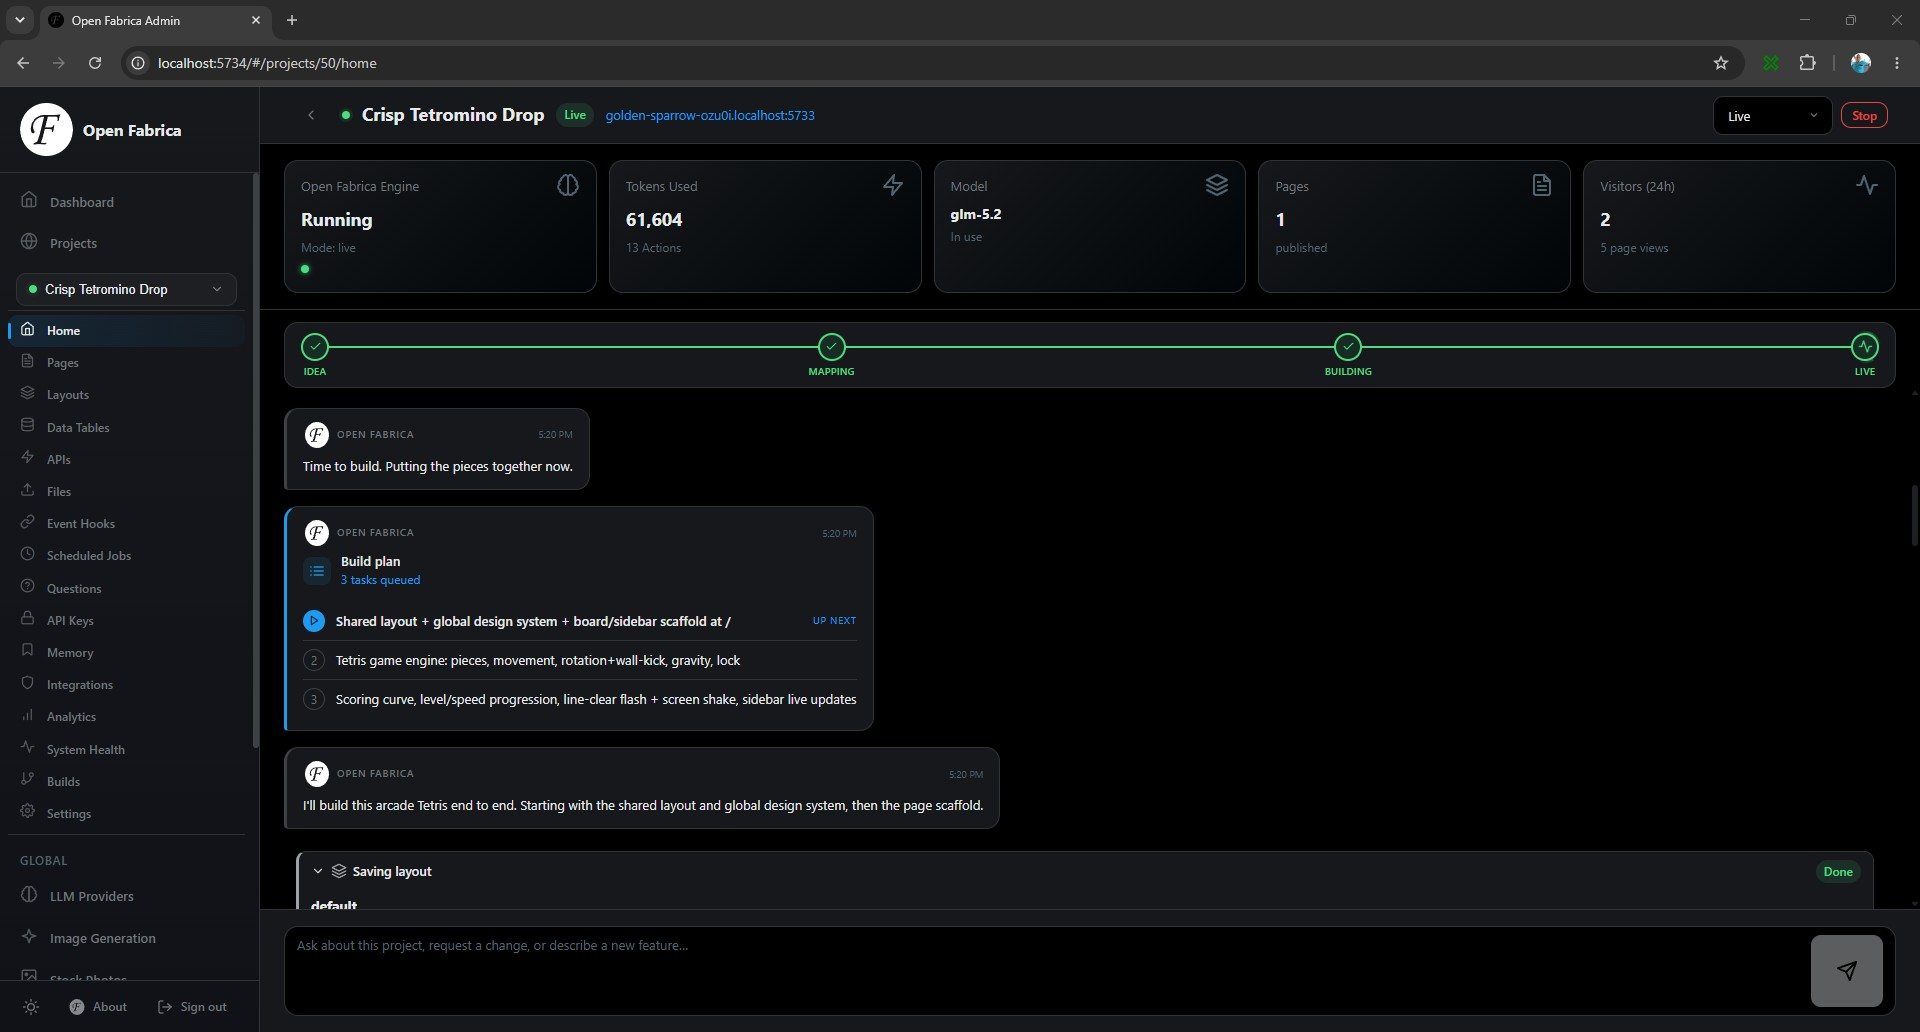
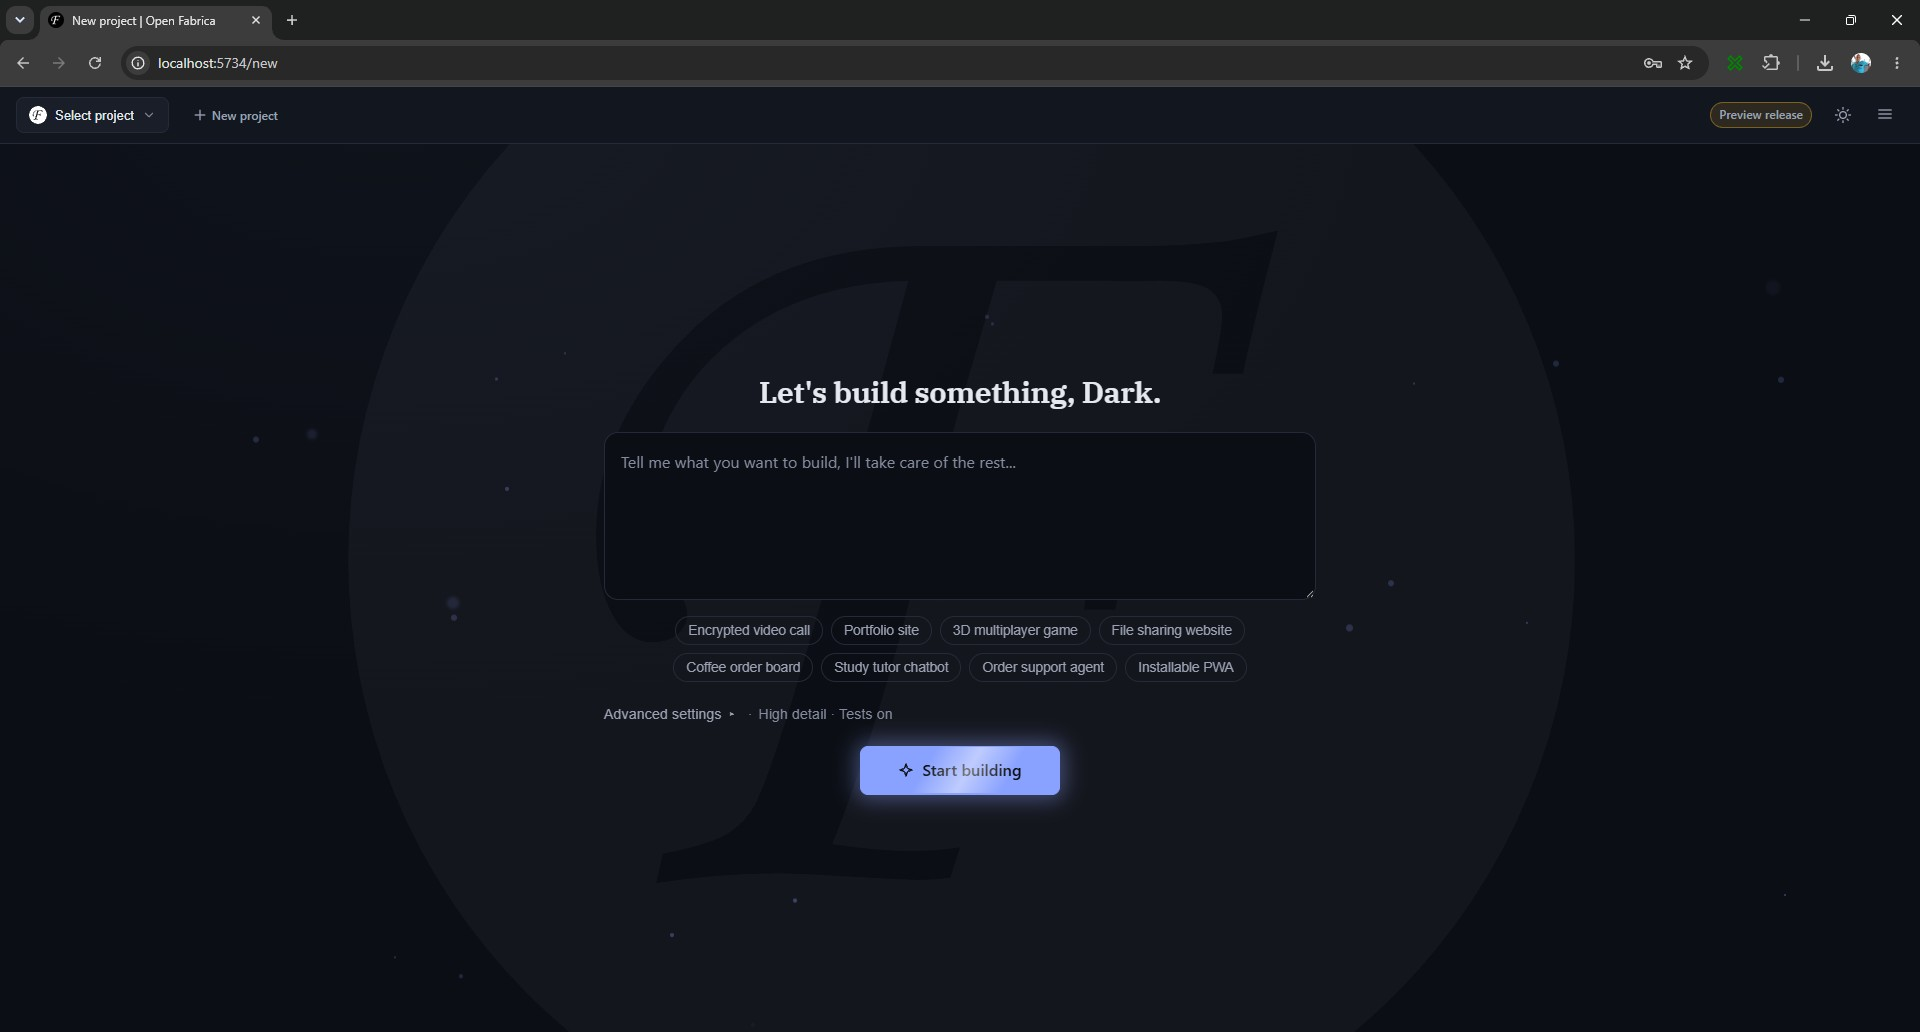
Docs 2 etc.

diff --git a/README.md b/README.md
@@ -4,21 +4,22 @@
 [![macOS](https://img.shields.io/badge/macOS-000000?logo=apple&logoColor=white)](https://github.com/dark-rumlinger/open-fabrica/releases)
 [![Linux](https://img.shields.io/badge/Linux-FCC624?logo=linux&logoColor=black)](https://github.com/dark-rumlinger/open-fabrica/releases)
 
+# Welcome to the era of Open Fabrica
 
 Just imagine a wild party where webservers, coding agents, database engines, reducers and many more entities get an omnipotent baby together which is well trained, super easy to handle and doesn't cry. It's a complete ecosystem in a single file.
 
-In fact, it is the most user friendly software in the observable universe. In literally one click you go from an idea to a product, reachable by anyone in the world. Zero config needed, no matter the complexity.
+![Your idea](docs/assets/build_1.jpg)
+
+In fact, it is the **most powerful and user friendly ai-powered software in the observable universe**. In literally one click you go from an idea to a product, reachable by anyone in the world. Zero config needed, no matter the complexity.
 
 
 ## Great Ideas are Everywhere
 
-It's meant for everyone. Literally. From school kids to teachers and from scientists to managers.
-
-Everyone has ideas and now there is no technical mountain to climb anymore. 
+It's meant for everyone. Literally. From school kids to teachers and from scientists to managers. Everyone has ideas and now there is no technical mountain to climb anymore. 
 
 So get your cheap coding plan or run a local model and start changing the world.
 
-## What Can it Create?
+## What Can I Build?
 
 ANYTHING which runs in a browser, just using one (!) click.
 
@@ -32,6 +33,8 @@ ANYTHING which runs in a browser, just using one (!) click.
 
 We're certain you'll come up with the most amazing stuff yourself.
 
+![Build end](docs/assets/build_2.jpg)
+
 ## Free, Private and Portable
 
 - **Forever Free.** No sign-up, no subscription, no per-project fee. Download the binary and run it.
@@ -40,10 +43,11 @@ We're certain you'll come up with the most amazing stuff yourself.
 - **Bring your own key.** Use your own Anthropic, OpenAI, Google Gemini, OpenRouter, or Z.ai key, or run fully offline models with Ollama or llama.cpp.
 - **Portable.** Copy the binary and your `data/` folder to any Windows, macOS, or Linux box and it picks up where it left off, or use `openfabrica backup` / `openfabrica restore` for a single-file backup that works while the server runs. To remove an installation completely, send `/selfdestruct` to the Telegram bot (two confirmations); `openfabrica selfdestruct --dry-run` previews what it would erase. See [SECURITY.md](docs/SECURITY.md) for its limits.
 
+![Your idea](docs/assets/projects.jpg)
 
 ## Quick Start
 
-**Important: This is an experimental release which focuses on getting the core build loop as stable as possible: things will break and tokens will be wasted. Ideally you're on a cheap coding plan or run a local model when your hardware allows for that. Many architectural decisions are not finalized.**
+**Important: This is an experimental release, things will break and tokens will be wasted. Ideally you're on a cheap coding plan or run a local model when your hardware allows for that.**
 
 [![1 minute setup](docs/assets/setup.png)](https://www.youtube.com/watch?v=n17afF0SnDo)
 
@@ -81,18 +85,6 @@ We're certain you'll come up with the most amazing stuff yourself.
 - **Roles and permissions**: named roles with a wildcard permission catalogue; endpoints are gated by role name (`admin` passes every gate).
 - **Copy and share projects**: duplicate a project in one click, or export it as a `.of` file and import it into another instance.
 - **Free HTTPS** automatically, no manual actions needed.
-
-## Screenshots
-
-![Play a game while you wait](docs/assets/build_game.jpg)
-
-![Build end](docs/assets/build_2.jpg)
-
-![Projects page](docs/assets/projects.jpg)
-
-![Setup welcome](docs/assets/setup_1.jpg)
-
-![Setup provider](docs/assets/setup_2.jpg)
 
 
 ## Before You Go Live
@@ -222,30 +214,8 @@ Open Fabrica stands on a lot of excellent open-source work. Special thanks to [L
 Plus [google/uuid](https://github.com/google/uuid), [zap](https://github.com/uber-go/zap), and the Go team's [`golang.org/x`](https://pkg.go.dev/golang.org/x) `crypto`, `net`, and `text` packages.
 
 
-## Meet the 'Team'
+## Contact
 
-Hi I'm Mark.
-
-Be nice to others. It makes the world a much nicer place to live in!
-
-If you need me I'm on X ([@open_fabrica](https://x.com/open_fabrica))
-
-![Meet my team](docs/assets/dark.jpg)
-
-## A personal Note
-
-I don't do hype, and I believe *real* talent is hard to find. A significant portion of workplace activity is self-justifying: processes and tasks that exist to preserve roles rather than produce outcomes.
-
-The workplace fascinates me precisely because I've never figured it out. Sandboxes governed by their own rules and power dynamics, none of which ever made sense to me. But people want to belong to something. A group, a mindset, a reassurance that they're doing great things while wearing a hoodie with the company logo on it. Until a higher paying job comes along.
-
-I think there's comfort in that, in running on autopilot. Honestly, I wish I could. It would have spared me the mental toll, and everything that followed from it: the physical, the relational, the financial. That's the cost of trying to act like a machine when you aren't one.
-
-So if you want to take anything from this: you'd better hope you're a robot. Otherwise life will bring you to your knees while the world keeps moving. I've used the workplace as an example, but this applies to everything.
-
-Or maybe, just maybe, it's all just me.
-
-
-
-
+I'm Dark. If you need me checkout X ([@open_fabrica](https://x.com/open_fabrica)).
 
 
